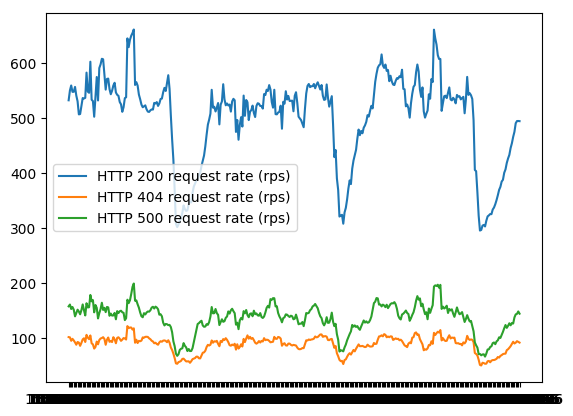
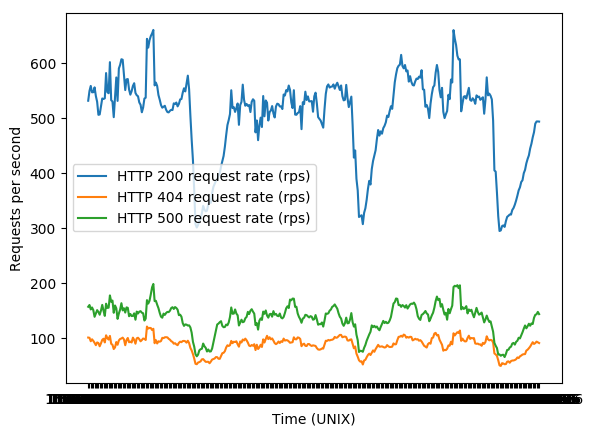
Add README content & minimal polishing

Changed region(s): [[0.0, 0.0312, 0.9791, 1.0]]

diff --git a/website_monitoring/README.md b/website_monitoring/README.md
@@ -2,3 +2,43 @@
 
 [Assignment 4](http://courses.washington.edu/css390/2019-q4/assignment-04.html) 
 for CSS 390.
+
+## Overview
+
+There are 3 script files which follow the requirements and naming 
+conventions stipulated in the assignment.
+
+* `trafficgen` uses `urllib3` to make HTTP requests to the server 
+  of interest.
+* `collector` polls the server's stats endpoint to get current 
+  metrics data at specific time intervals.
+* `plot` calculates a rolling average of requests per second received 
+  by the server and plots the requests for the time range provided in 
+  the log file generated by `collector`.
+
+## Good & Bad Takeaways
+
+#### Good
+
+Learning more about `urllib3` was useful; I also looked into 
+`asyncio` and `asynchttp` as part of the background research for this 
+assignment.
+
+#### Bad
+
+The plot script looks cobbled together because it is cobbled together, 
+and I didn't do this assignment justice in that respect.
+
+I enjoy data visualization work and have used `matplotlib` for 
+personal and academic projects in the past, so I am disappointed that 
+I did not give myself enough time to polish this script and produce 
+a more visually appealing graph.
+
+Things to improve on the plot:
+
+* Generate the 1-minute and 10-minute rates according to the CLI
+  arguments provided. I started working on this but it isn't fully 
+  implemented.
+* Reduce the density of the x-axis major & minor tick marks, and 
+  convert the UNIX time series values to hour:minute values.
+* Add a title, beautification, etc.
